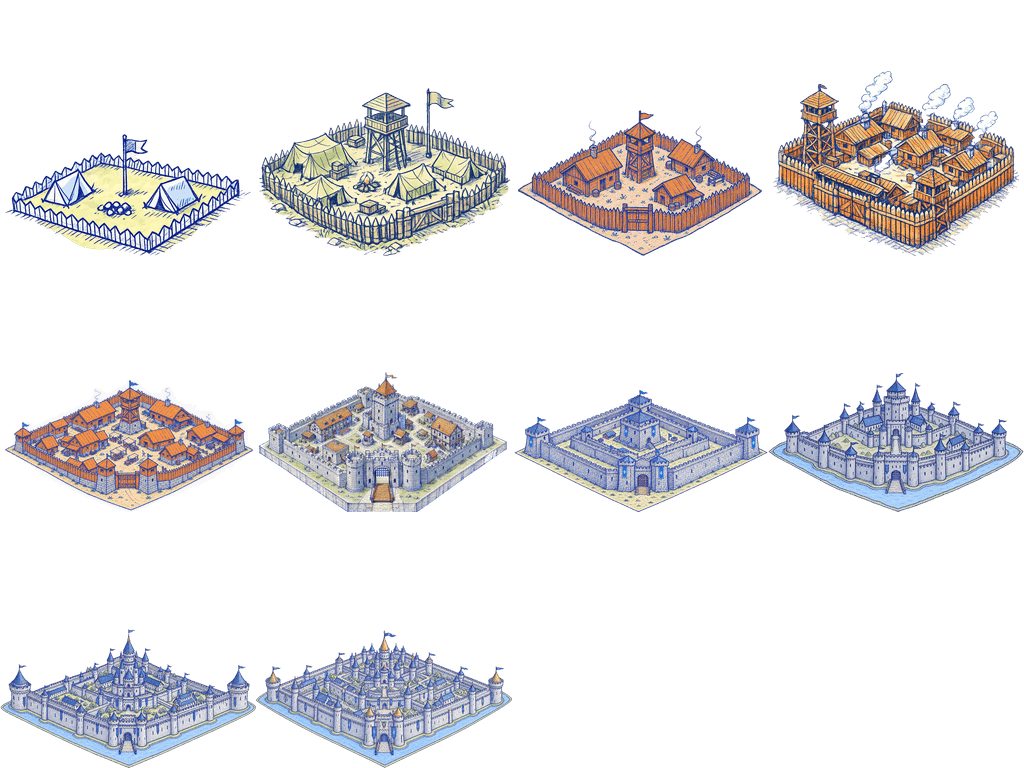
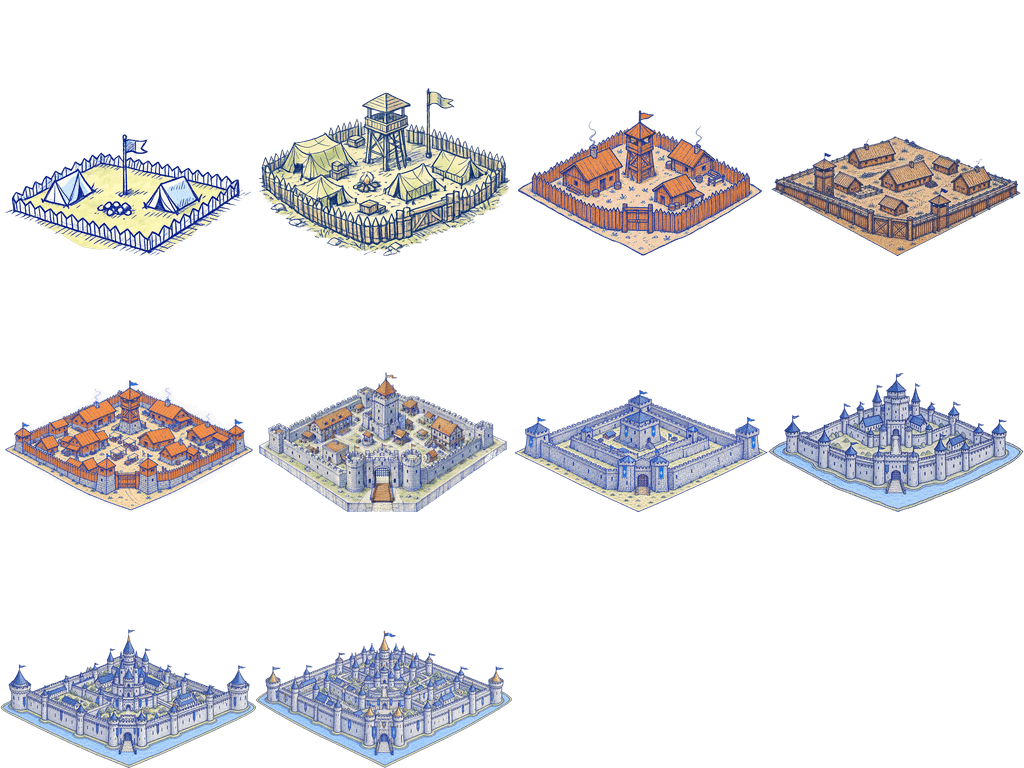
art(slg): redraw city_l4 wide-and-low, tighten the height guard to 1.45
Second round of the 2026-09-21 height fix. city_l4 was left alone in the
first round on the reasoning that it caused no inversion — true only while
city_l5 was still broken. Once l5 landed at 2.75 tiles, l4's old art stood
at 3.85, making the lowest level of the 5x5 tier the tallest in it.

New art: aspect 1.33 -> 2.08, drawn height 3.85 -> 2.50 tiles, width fill
0.977. The tier now reads 3.04 / 2.50 / 2.75 for Lv3/4/5, and the 8
courtyard buildings (against 4 in both the old art and city_l3) carry the
progression instead. Source stays .webp to avoid a lossy transcode.

Verified live in the map editor by importing three scratch 5x5 cities at
levels 3/4/5 next to the world centre, so the whole tier renders in one
frame; the new frame sits flat on its plot and reads a clear step below Lv5.

city_l2 is now the only frame above the playerbase height budget, so
HEIGHT_BUDGET_K tightens from 1.6 to 1.45. It is a 3x3 starter camp nobody
has reported, so it is not queued; every frame replaced today sat at
2.03-2.13, well clear of 1.45 either way.

Both city_l7 candidates are rejected and kept in art/leftover/. Their
courtyards are exactly the density l7 lacks, but aspect came back at 1.34
and 1.21 — taller than the l7 already shipping — and both have 0.0% warm
pixels where every other stone frame keeps 6-30%. Adding a density
requirement pushed proportion back out, so the v3 prompt in
design/product/city-image-prompts.md states both as hard requirements and
[…]

Changed region(s): [[0.75, 0.0938, 1.0, 0.3438]]

diff --git a/client/test/ui/cityAtlasContentTop.ui.ts b/client/test/ui/cityAtlasContentTop.ui.ts
@@ -76,11 +76,13 @@ describe('cityAtlasLoader.getCityContentTopFracForLevel (real atlas data)', () =
     // width; the 2026-08-13 audit had missed it because its criterion (cw/ch >= 0.9375) only checks
     // plot-WIDTH fill and has no height ceiling. Mirrors the playerbase height-budget test above.
     //
-    // K is deliberately loose for now: l2 (1.40) and l4 (1.54) are the two frames still on
-    // pre-2026-09-21 art and are the next re-roll (design/product/city-image-prompts.md
-    // § 高度审计 2026-09-21). Every frame the 2026-09-21 batch replaced sat at 2.03-2.13, so 1.6
-    // still separates fixed from broken; tighten to the playerbase's own 1.2 once l2/l4 land.
-    const HEIGHT_BUDGET_K = 1.6;
+    // K is as tight as the current art allows: `city_l2` (1.40) is the last frame still on
+    // pre-2026-09-21 art, and nothing else exceeds 1.22. Every frame the 2026-09-21 batch
+    // replaced sat at 2.03-2.13, so this still separates fixed from broken by a wide margin.
+    // Tighten to the playerbase's own 1.2 if l2 is ever redrawn — it is a 3×3 starter camp
+    // nobody has complained about, so that is a nice-to-have, not a queued fix
+    // (design/product/city-image-prompts.md § 高度审计 2026-09-21).
+    const HEIGHT_BUDGET_K = 1.45;
     for (let lv = 1; lv <= 10; lv++) {
       const footprint = cityFootprint(lv);
       const drawnTiles = (1 - getCityContentTopFracForLevel(lv)) * citySpriteTiles(footprint, BASE_SPRITE_TILES);

diff --git a/art/slg/slg-building/pack_city_atlas.js b/art/slg/slg-building/pack_city_atlas.js
@@ -41,7 +41,7 @@ const FILES = [
   { file: 'city_l1.png',   name: 'city_l1'  },
   { file: 'city_l2.png',   name: 'city_l2'  },
   { file: 'city_l3.png',   name: 'city_l3'  },
-  { file: 'city_l4.png',   name: 'city_l4'  },
+  { file: 'city_l4.webp',  name: 'city_l4'  },
   { file: 'city_l5.png',   name: 'city_l5'  },
   { file: 'city_l6.webp',  name: 'city_l6'  },
   { file: 'city_l7.png',   name: 'city_l7'  },

diff --git a/design/product/city-image-prompts.md b/design/product/city-image-prompts.md
@@ -609,3 +609,95 @@ no text, no labels
 ```
 
 **这两张落地后**：把 `cityAtlasContentTop.ui.ts` 的 `HEIGHT_BUDGET_K` 从 1.6 收紧到 1.2。
+
+### 第二轮结果（2026-09-21 同日）——`l4` 采用，`l7` 两个变体都退
+
+用户出了 3 张：1 张木寨（`l4`）、2 张石堡变体（`l7` 的 A/B）。用真实打包管线量：
+
+| 候选 | 宽高比 | 宽度填充 | 冷色% | 暖色% | 判定 |
+|---|---|---|---|---|---|
+| `wooden_town_doodle_512` → **`city_l4`** | **2.083** ✅ | 0.977 | 25.7 | 64.9 | **采用** |
+| `fortress_doodle_variant_a_512`（l7 A） | **1.340** ❌ | 1.000 | 99.9 | **0.0** | 退 |
+| `fortress_doodle_variant_b_512`（l7 B） | **1.210** ❌ | 0.992 | 91.5 | **0.0** | 退 |
+
+**`city_l4` 采用**：比例 2.083 落在 1.75–2.2 带内；院内 8 座独立建筑（旧图和 `city_l3` 都只有 4 座），密度硬指标达标；绘制高度 3.85 → **2.50 格**，5×5 档从「Lv4 比 Lv5 高 40%」变成 Lv3 3.04 / Lv4 2.50 / Lv5 2.75，残差 10–20%，密度足以承担档内递进，不再返工。源图保留 `.webp`（未转 png，避免有损转码），`pack_city_atlas.js` 的 `FILES` 同步改。
+
+> **一次险些误判**：肉眼看这张"发棕、不像蓝墨线"，差点按 2026-08-14 那次的画风漂移退掉。量了色相分布才发现**木寨档本来就是暖色主导**——`city_l3` 暖 64.6% / `city_l5` 暖 50.9%，候选的 64.9% 正在带内。**画风这一项也要量，别信眼睛**：统计口径就用 `makeCell` 输出的 cell 里 `b>r+8` / `r>b+8` 的像素占比。
+
+**`l7` 两个变体都退**，但 A **不是白出**——它的院内密度正是 `l7` 缺的那一块（10+ 座建筑 + 市集摊位 + 水井 + 圆形主堡，压过 `city_l6`）。两个问题都在别处：
+
+1. **比例掉回去了**：A=1.340 / B=1.210，比现在线上的 `city_l7`（2.082）还高得多。折算绘制高度 A=5.57 格 / B=6.13 格，而 `city_l6` 才 4.08、`city_l8` 才 4.05——采用等于在 7×7 档里造一个新的倒挂，并把刚修完的高度推回去。根因是地台又画陡了，加上墙体和角楼偏高。
+2. **暖色归零**：A/B 的暖色像素占比都是 **0.0%**。石堡系列每一张都留着 6–30% 的暖色点缀（`l6` 30.2 / `l7` 16.0 / `l8` 5.8 / `l10` 8.4），全冷色会在图集里显得发灰、跟邻级断档。
+
+**这一轮的教训（接着上一轮那条往下走）**：上一轮的结论是"每个在乎的维度都得各自给一条可数的硬指标"。这一轮发现还有下半句——**加了密度指标之后，比例反而退了**。建筑堆多了，外接框自然被顶高，两条指标在打架。所以 v3 必须**同时**写死两条，并明确告诉它冲突时怎么让步（压扁地台和墙高，别删建筑）。这跟 playerbase 子回合 E 是同一个坑：那次也是"尖顶/旗杆把外接框顶高"，靠补一条数字自检才救回来。
+
+两个退稿已移入 `art/leftover/city_l7_cand_2026-09-21_variant{A,B}_rejected-*.webp`，未删——A 的院内布局是 v3 的构图参照。
+
+#### `city_l7` v3 — Lv 7「石堡加固」（7×7，Tier3 中段）
+
+比 v2 多三件事：比例与密度**并列**写死并给出冲突时的让步方向、显式要求暖色屋顶、点名参照 A 稿的院内布局。出图时把 `city_l8.png`（比例参照）、`city_l6.webp`（暖色与密度参照）和 A 稿一起喂进去。
+
+```
+A loose hand-drawn ink DOODLE sketch on graph paper — NOT a detailed painted
+illustration, NOT realistic shading, NOT rendered texture with light/dark
+gradients. Flat, scratchy fountain-pen blue ink outlines with occasional
+cross-hatching for texture ONLY, filled with simple FLAT single-tone
+watercolor washes — match the exact medium, flatness and line weight of
+city_l8.png.
+
+TWO HARD REQUIREMENTS. Both must hold at once. If they fight, obey the
+first and give way on the second by FLATTENING, never by removing buildings.
+
+(1) PROPORTION. The whole fortress sits on ONE wide rotated-diamond
+isometric ground plate seen from above at a shallow tilt, like a diamond
+playing-card symbol. NOT a front elevation, NOT a tabletop diorama, no
+horizon. The plate's top corner sits about 1/4 down the canvas and its
+bottom corner about 3/4 down — a flat 2:1 diamond, twice as wide as it is
+deep. Draw an imaginary tight box around EVERYTHING non-white, including
+every tower, spire and flag: its width must be AT LEAST 1.75 times its
+height. city_l8.png's own box is 1.84 wide-to-tall; match it. The outer
+walls must be LOW — roughly one sixth of the total box height — and the
+central keep must not exceed one third of it. If the box comes out too
+tall, lower the walls, shorten the towers and flatten the ground plate.
+Do NOT delete courtyard buildings to make it fit.
+
+(2) DENSITY. The courtyard must be LIVED-IN, not an empty walled yard.
+Inside the walls draw AT LEAST 8 distinct occupied structures besides the
+keep — barracks, stables, a smithy with a chimney, storehouses, market
+stalls, a well, a chapel, garden plots — packed the way city_l6.webp packs
+its own courtyard. Count the buildings inside city_l6.webp's walls and draw
+MORE: it is the level directly below this one and must never look busier or
+more inhabited than this one.
+
+COLOR. Mostly cool grey-blue stone, BUT the roofs of the courtyard
+buildings must be warm orange-brown, the same warm accent city_l6.webp uses
+— roughly one fifth of the drawing should read warm. An all-blue,
+all-monochrome fortress is WRONG and will be rejected.
+
+Subject: a reinforced stone fortress — thick crenellated outer walls with a
+second inner wall ring (both clearly visible from above as concentric
+diamonds), three corner towers, a central keep with a low peaked roof, a
+stone gatehouse with double portcullis, banners on the towers, and the
+packed courtyard described above. It must read as bigger than city_l6.webp
+through SPREAD, the second wall ring and more inner buildings, never through
+height. Heavy cross-hatching on stone for texture.
+
+hand-drawn doodle illustration on graph paper, fountain pen blue ink lines,
+slightly scratchy student sketch strokes, light watercolor marker fill,
+isolated on transparent background, 512x512px, notebook doodle aesthetic,
+no text, no labels
+```
+
+### 当前全链读数（2026-09-21 收盘）
+
+从合并后的 `world_atlas.png` 抠实际像素：
+
+| | Lv1 | Lv2 | Lv3 | Lv4 | Lv5 | Lv6 | Lv7 | Lv8 | Lv9 | Lv10 |
+|---|---|---|---|---|---|---|---|---|---|---|
+| 宽高比 | 2.02 | **1.49** | 1.67 | 2.08 | 1.89 | 1.77 | 2.08 | 1.84 | 1.84 | 1.86 |
+| 绘制高(格) | 1.53 | 2.10 | 3.04 | 2.50 | 2.75 | 4.08 | 3.56 | 4.05 | 5.21 | 5.18 |
+| 高/地块屏幕高 | 1.02 | **1.40** | 1.22 | 1.00 | 1.10 | 1.17 | 1.02 | 1.16 | 1.16 | 1.15 |
+
+`city_l2` 是唯一还超过 1.2 的，`cityAtlasContentTop.ui.ts` 的 `HEIGHT_BUDGET_K` 因此从 1.6 收紧到 **1.45**（本轮换掉的旧帧都在 2.03–2.13，仍分得很开）。`l2` 是 3×3 起手小营地、没人反馈过，**不排队**；真要动它再把 K 收到 playerbase 自己用的 1.2。
+
+`city_l7` 的内容缺陷（院内太空）在 v3 出图前**仍然在线上**——它比例达标、不违反任何硬性门禁，只是读起来比 Lv6 简单。

diff --git a/design/game/WORLD_MAP_ART_SPEC.md b/design/game/WORLD_MAP_ART_SPEC.md
@@ -80,7 +80,7 @@
 
 | 资产名 | 描述 | 状态 |
 |---|---|---|
-| `city_l1..l10` | 我/敌/盟主城 + NPC 可攻占城池（每级一张，10 级，归属靠程序上色） | ✅ 已接入 `city_atlas`（3×3 base 锚点，深度排序图层；2026-08-14 起统一命名，无档位回退） | ✅ **高度修复已落地（2026-09-21）**：`l3/l5/l7/l8/l9/l10` 重出图，内容外接框宽高比 1.0 → 1.67–2.08（世界中心绘制高度 1.05× 地块宽 → 0.58×）。精灵是等比方形缩放，**高度只能靠重出图修，没有代码旋钮**；`cityAtlasContentTop.ui.ts` 现已钉住高度上限。**剩 `l2`/`l4` 两张未修**（`l4` 现为 5×5 档最高），数据 + prompt 见 [`city-image-prompts.md`](../product/city-image-prompts.md) 「高度审计（2026-09-21）」
+| `city_l1..l10` | 我/敌/盟主城 + NPC 可攻占城池（每级一张，10 级，归属靠程序上色） | ✅ 已接入 `city_atlas`（3×3 base 锚点，深度排序图层；2026-08-14 起统一命名，无档位回退） | ✅ **高度修复已落地（2026-09-21）**：`l3/l5/l7/l8/l9/l10` 重出图，内容外接框宽高比 1.0 → 1.67–2.08（世界中心绘制高度 1.05× 地块宽 → 0.58×）。精灵是等比方形缩放，**高度只能靠重出图修，没有代码旋钮**；`cityAtlasContentTop.ui.ts` 现已钉住高度上限。**`l4` 已补（同日第二轮）；剩 `l2` 未修（唯一超高度预算的一张，不排队），`l7` 比例达标但院内太空、等 v3 重出**，数据 + prompt 见 [`city-image-prompts.md`](../product/city-image-prompts.md) 「高度审计（2026-09-21）」
 | ~~`building_keep`~~ | ~~战略要点/咽喉点建筑（城楼门楼）~~ **当前无人读取（2026-08-19）**：该 stamp 是 `familyKeep` 格的逐格建筑，而 `familyKeep` 现在只剩「城池地面」语义——城池的美术是城池层那一个按 footprint 缩放的精灵，占地格再各画一座门楼只会连成砖墙（发布过的城是整块 N×N）。图集帧保留备用（日后真做咽喉点玩法可复用），见 [`SLG_LOG_2026-08.md` 2026-08-19 城池节点条](SLG_LOG_2026-08.md) |
 | `building_stronghold` | 险地 NPC 据点（暗色石垒） | ✅ 已接入 `building_atlas`（2026-07-03） |
 | `icon_watchtower` | 己方瞭望塔（扩视野） | ✅ 改版完成——3/4 俯视宽脚架构图，详见 [`slg-building-art.md`](../product/slg-building-art.md) |
